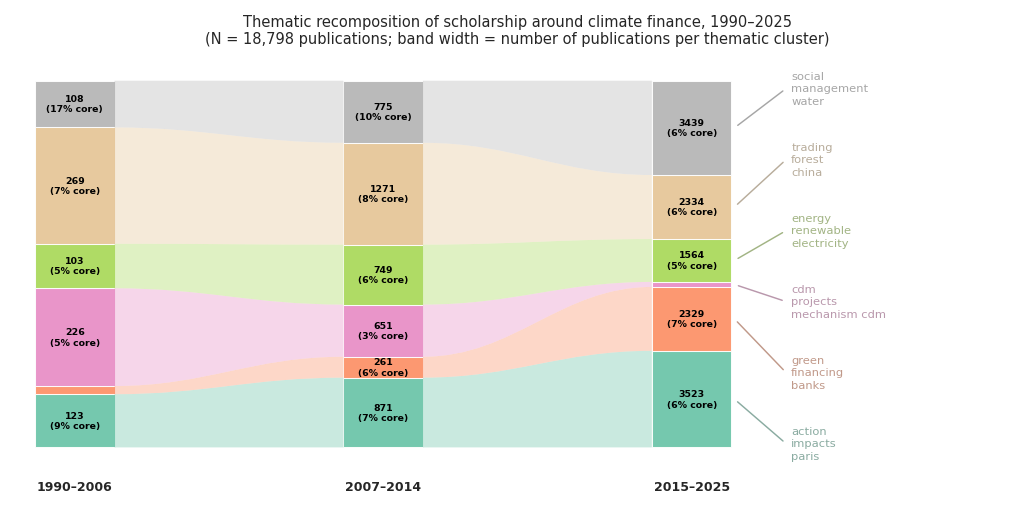
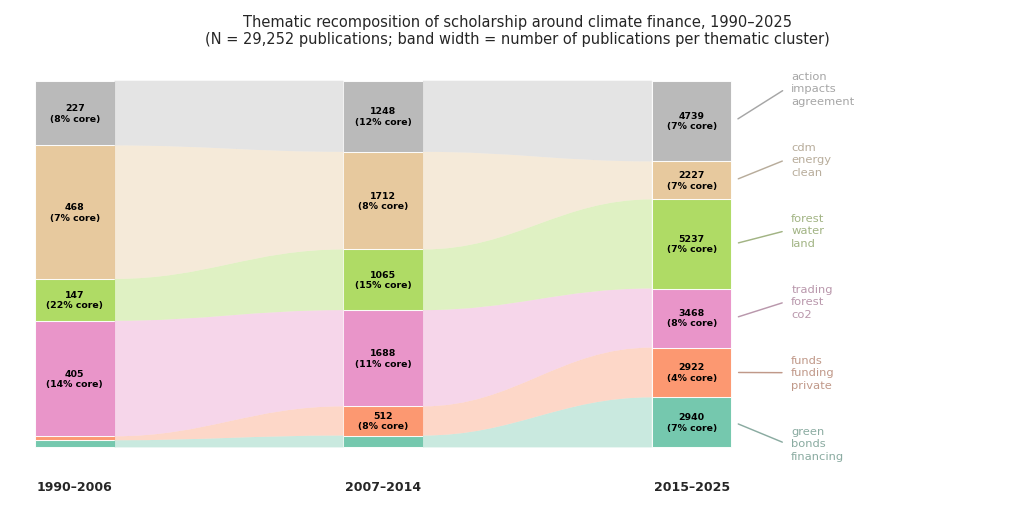
Update figures and alluvial data from 29K corpus on padme
- Fig 2 composition: regenerated with dynamic cluster labels
- Fig alluvial + breakpoints: synced from padme (29,252 works)
- tab_alluvial.csv: updated counts for 3 periods × 6 clusters
- PLAN.md: mark Fig 2 done, deduplicate checklist items

diff --git a/PLAN.md b/PLAN.md
@@ -104,16 +104,18 @@ All sections drafted, numbered per Œconomia style (Arabic, not Roman).
 
 ### Remaining — Figures & tables
 - [x] Fig 1 (bars): self-explaining legend ("UNFCCC financial mechanism literature" / "of which: climate finance"), caption updated, grayscale 120mm, starts 1992
-- [ ] Fig 2 (composition): regenerate in Oeconomia style — consider relocating from §2 to §3 or §4
+- [x] Fig 2 (composition): dynamic labels from cluster_labels.json, grayscale style — labels may need human polish
 - [ ] Table 1 (traditions): tradition detection via co-citation clustering for §1.5 — or relocate to conclusion if communities don't separate pre-2007
 - [ ] Period detection: regenerate divergence curves + top-terms table for §2.5
 - [ ] Quantitative support for efficiency–accountability tension in §3.4
 
 ### Remaining — Structure & text
 - [ ] Human proofread of full manuscript
+- [ ] Change title (TBD)
+- [ ] Regenerate French résumé and English abstract
+- [ ] Page break before introduction + "Introduction" entry in PDF bookmarks/TOC
 - [ ] Redistribute quantitative method details: what stays in-text, what goes to footnotes, what to annex
 - [ ] Content polish pass (opening hook, figure cross-references)
-- [ ] French abstract (Résumé)
 - [ ] Keywords (FR + EN)
 - [ ] Final word count trim if needed (currently ~9,600 rendered, target ~9,000)
 - [ ] Proofread bibliography formatting (DOI on separate line per Œconomia style)
